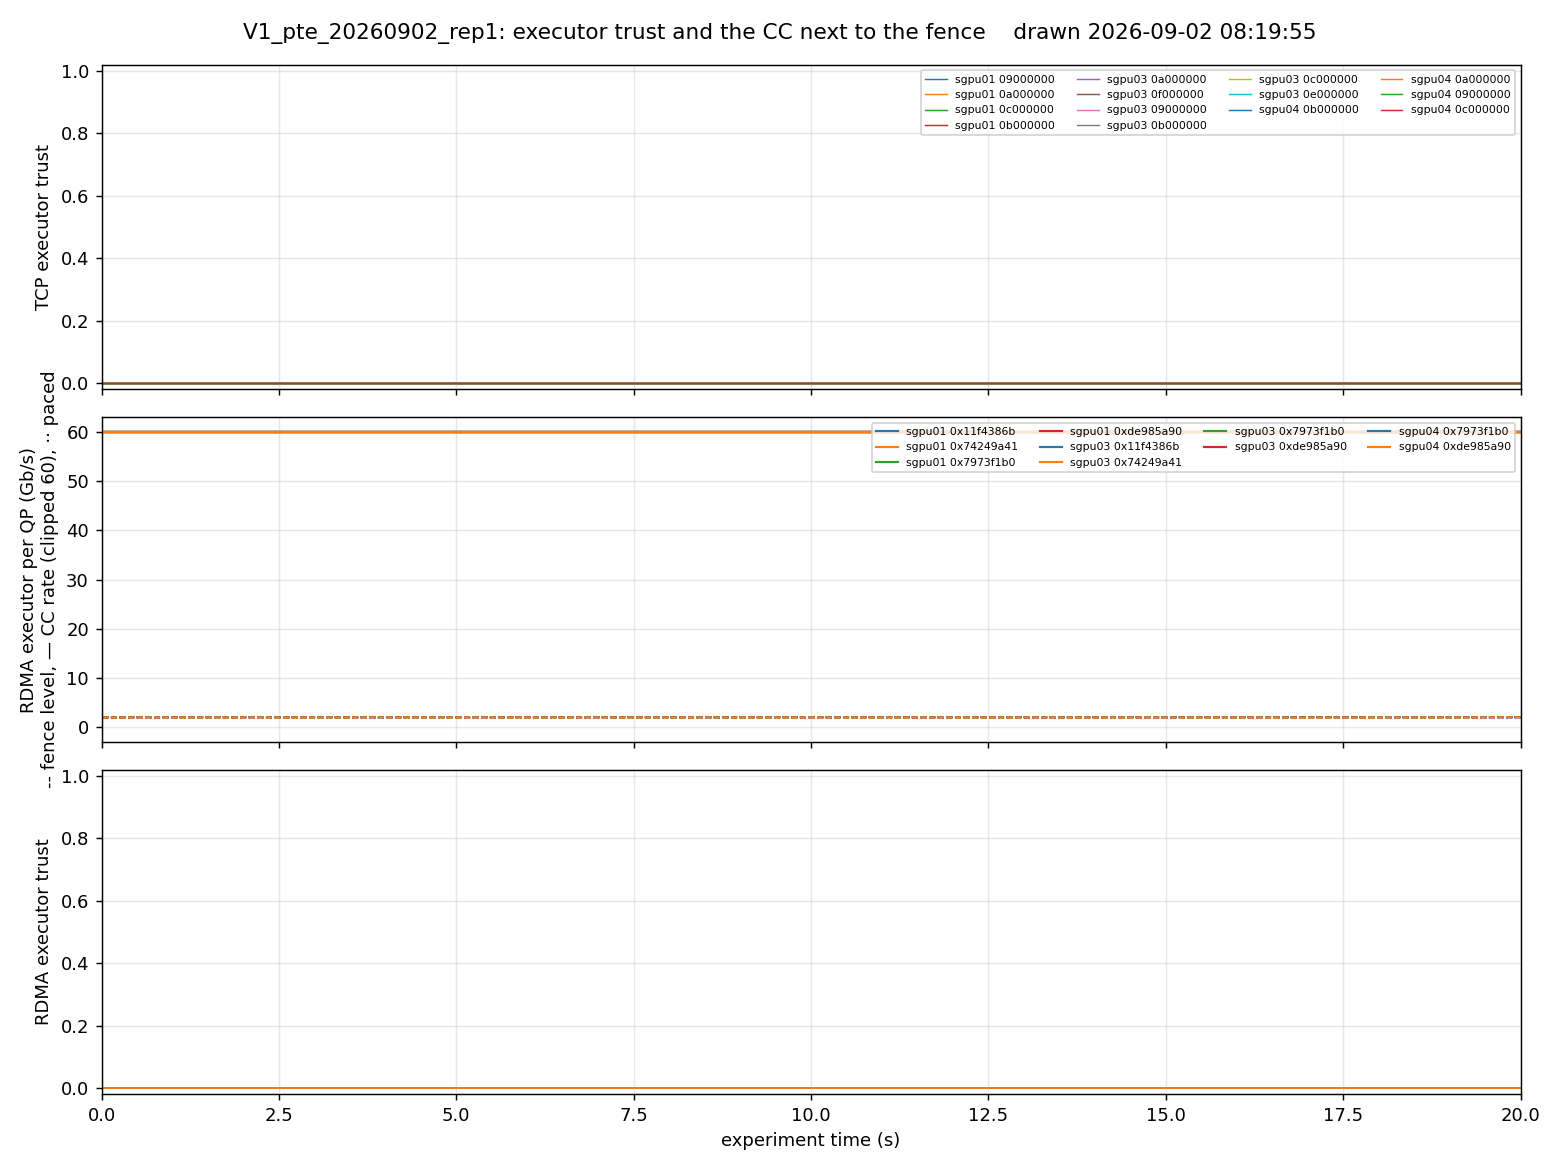
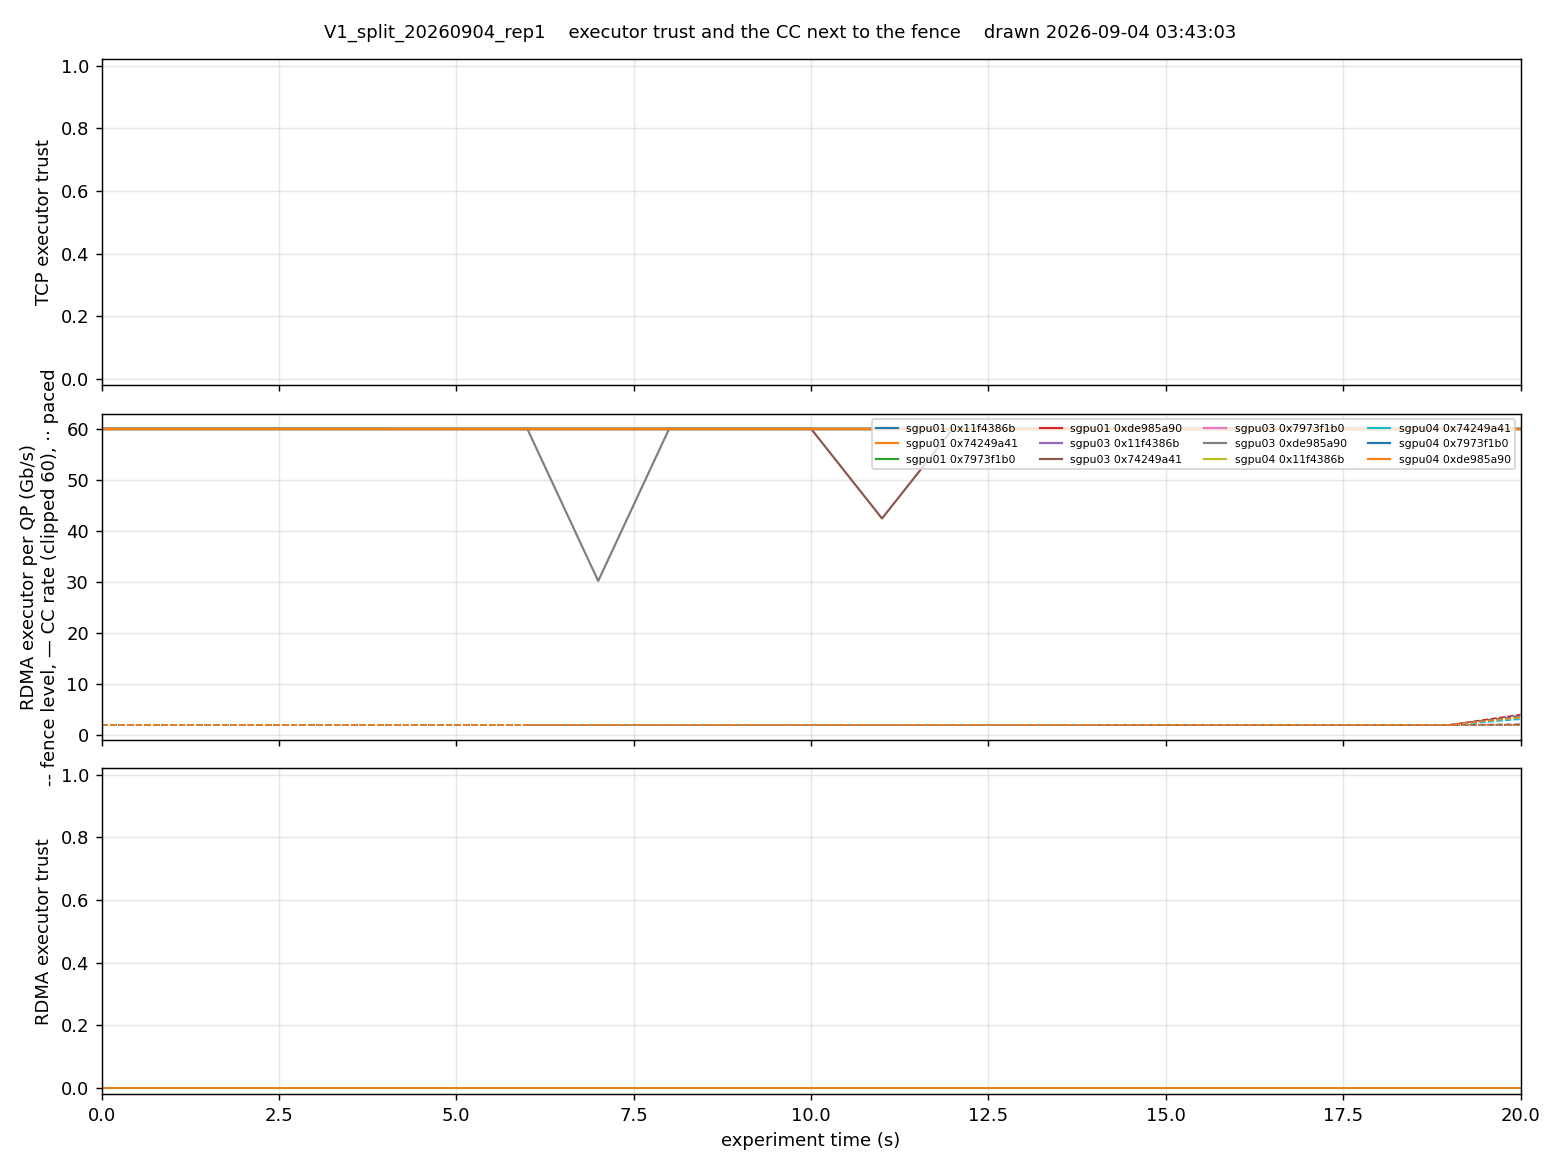
拓扑：sn5600 一分为二切换完成（swp21↔swp25 回环，A=sgpu01+sgpu03，B=sgpu02+sgpu04）；校验脚本改到 DPU 底层口；README/注册表/STATUS 记录新拓扑；V1 回归五条全过

diff --git a/validation/STATUS.md b/validation/STATUS.md
@@ -6,6 +6,10 @@
 
 **重传模式是 SR**，四台 host 的 ROCE_ACCL `selective_repeat_forced_en=1`，由 `run.sh` 逐台复核并落盘。这一点值得单独写一行：在此之前，环境快照记录的是 mlxconfig 的 `RDMA_SELECTIVE_REPEAT_EN`，而那个开关在本 lab 永远是 0（它要 fw reset，我们用的是寄存器那条路），所以**过去任何一次运行的重传模式都无法从记录里判定**。下表是第一批确知跑在 SR 上的结果。
 
+## 拓扑改动：交换机一分为二（2026-09-04）
+
+sn5600 用回环线（`swp21`↔`swp25`，OSFP 800G）分成两台逻辑交换机：A 侧 = sgpu01 + sgpu03，B 侧 = sgpu02（接收端）+ sgpu04，两侧之间只有这根线，它是接收端账本管不到的核心链路。切换后 V1 原样回归（`V1_split_20260904_rep1`，图 `fig/V1_*`）五条全过，24 个流集合 7.65–7.67 G、合计 183.8 G，与改线前（183.9 G）一致；过核心的 sgpu01/sgpu03 与不过核心的 sgpu04 各自平均都是 7.66 G，回环口计数器里没有丢包。核心现在 800G、无 ECN、无 PFC，还不是瓶颈；下一步由用户决定是否把它压低、绑 ECN。
+
 ## 四个必跑场景（各一遍，2026-09-01，SR 确认）
 
 | 场景 | 贴合 | 队列 | 收敛 | 不塌 | 健康 |
